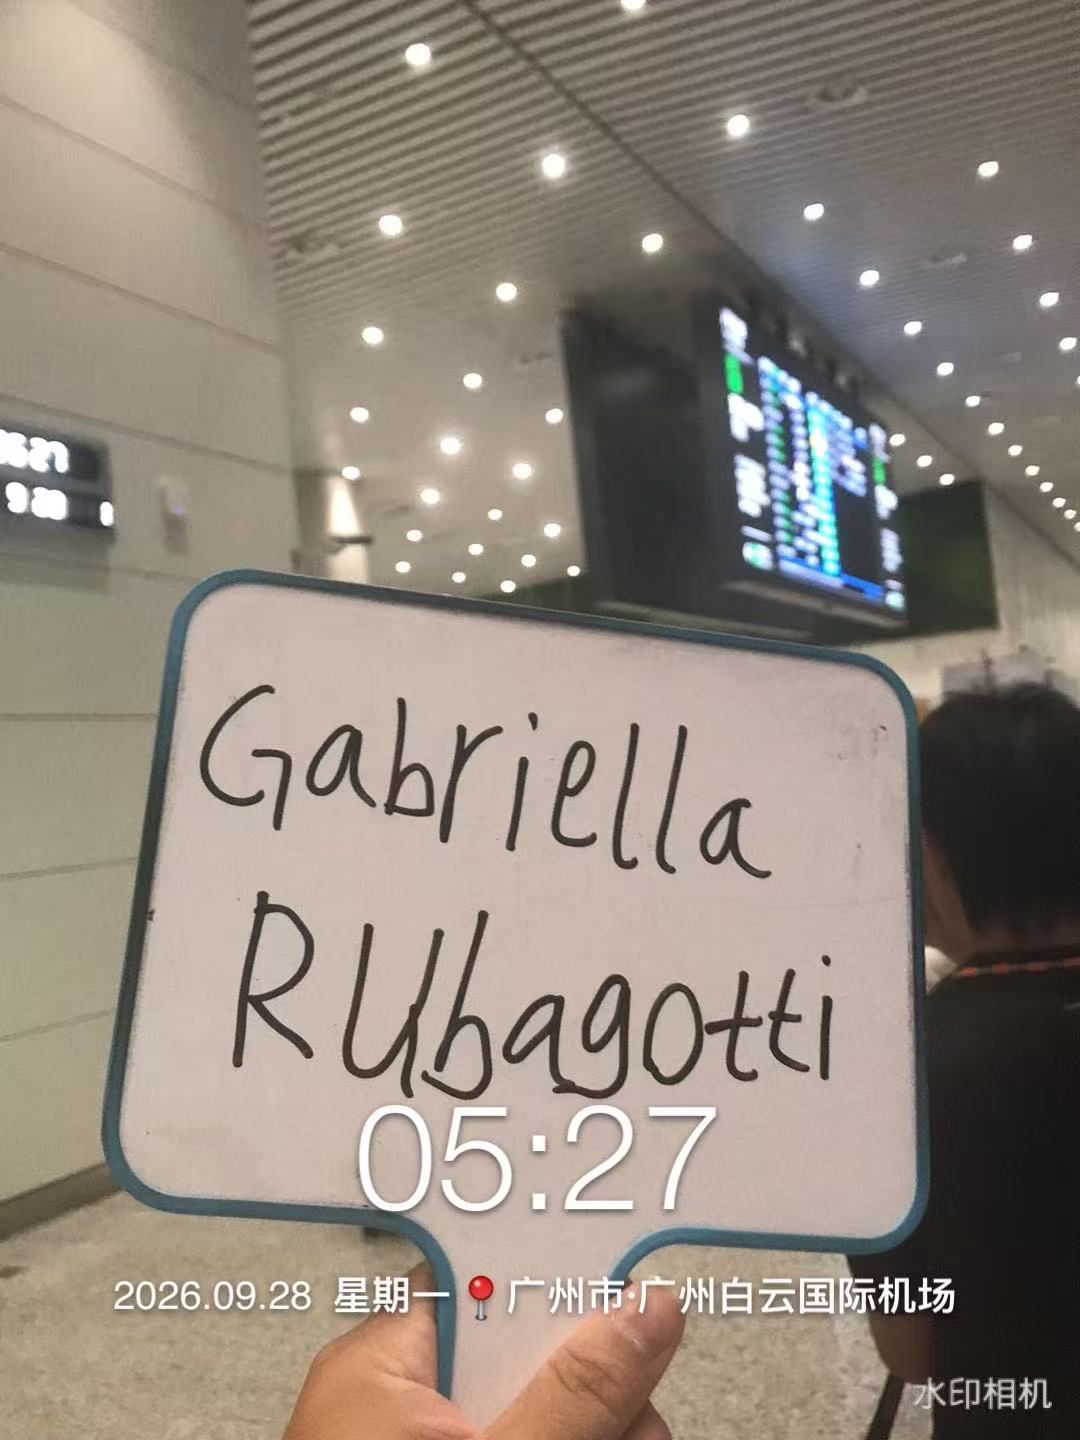
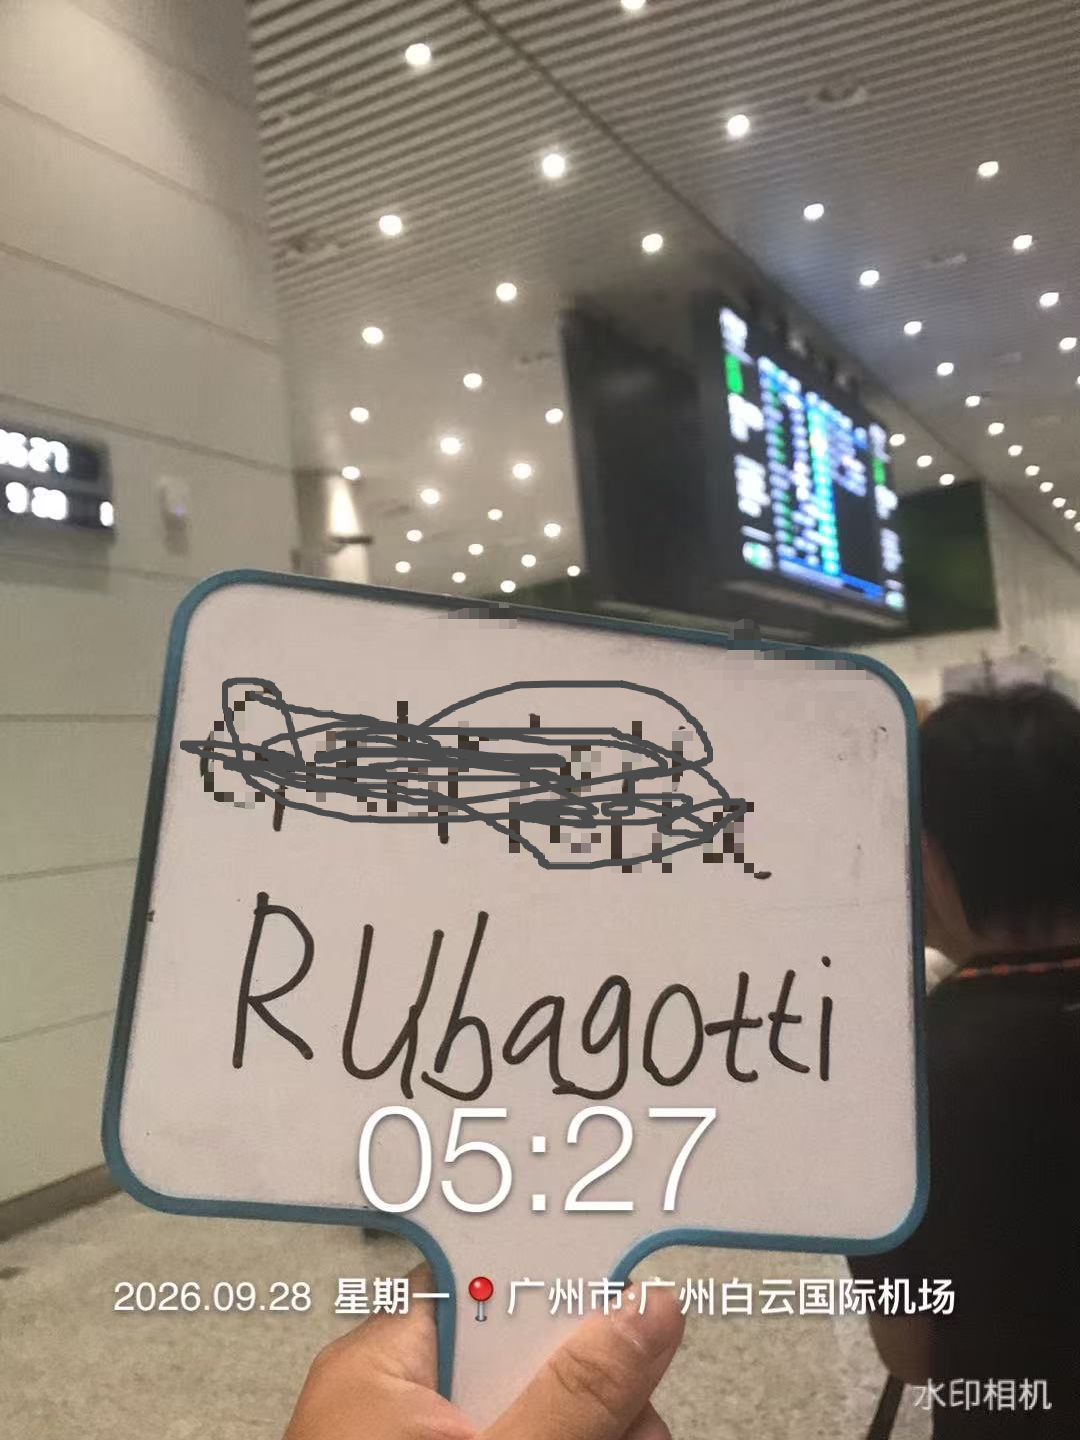
调整路线和价格

diff --git a/src/data/content.js b/src/data/content.js
@@ -22,7 +22,7 @@ export const pages = tr({
     path: '/airport-transfer',
     title: 'Guangzhou Baiyun Airport Transfer & Pickup | CantonPickup',
     description:
-      'Guangzhou Baiyun Airport (CAN) pickup by English-speaking driver. Flight monitoring, meet & greet with a name sign, 60 minutes free waiting.',
+      'Guangzhou Baiyun Airport (CAN) pickup by English-speaking driver. Flight monitoring, meet & greet with a name sign, 90 minutes free waiting.',
     keywords:
       'guangzhou airport transfer, guangzhou airport pickup, guangzhou baiyun airport transfer, baiyun airport transfer, CAN airport transfer, guangzhou arrival transfer, guangzhou south station pickup, china visa free transit guangzhou, 240-hour visa free transit guangzhou, guangzhou airport to canton fair',
     h1: 'Guangzhou Baiyun Airport Pickup (CAN) — Meet & Greet',
@@ -287,7 +287,7 @@ export const termsSections = [
   {
     title: '4. Waiting time and flight delays',
     body: [
-      'For airport pickups we monitor your flight. If it lands late, your driver waits and the pickup time moves with it — there is no extra charge. Standard free waiting time at the airport is 60 minutes from landing.',
+      'For airport pickups we monitor your flight. If it lands late, your driver waits and the pickup time moves with it — there is no extra charge. Standard free waiting time at the airport is 90 minutes from landing.',
       'For other pickups, 15 minutes of waiting time is included. Additional waiting time is charged at the hourly overtime rate shown on our pricing page, in 30-minute blocks.',
     ],
   },
@@ -359,7 +359,7 @@ export const serviceCards = tr([
     text: 'Land, clear immigration, and find your driver waiting in the arrivals hall with a sign. We follow your flight, so a late landing never costs you anything extra.',
     points: [
       'Flight monitored in real time — no charge if you land late',
-      '60 minutes of free waiting time after your flight lands',
+      '90 minutes of free waiting time after your flight lands',
       'Meet & greet with a name sign inside the terminal',
     ],
   },
@@ -820,7 +820,7 @@ export const faqGroups = tr([
       },
       {
         q: 'How much waiting time is included?',
-        a: 'For airport arrivals we include 60 minutes of free waiting time from the moment your flight lands, and 30 minutes for departures and railway station pickups. If you are held up in immigration or baggage claim, just let us know.',
+        a: 'For airport arrivals we include 90 minutes of free waiting time from the moment your flight lands, and 30 minutes for departures and railway station pickups. If you are held up in immigration or baggage claim, just let us know.',
       },
       {
         q: 'Which airports and stations do you cover?',
@@ -1228,7 +1228,7 @@ export const heroBadges = tr({
     { icon: 'plane', text: 'Flight monitored' },
     { icon: 'user', text: 'Meet & Greet with name sign' },
     { icon: 'luggage', text: 'Luggage handled' },
-    { icon: 'shield', text: '60 minutes free waiting' },
+    { icon: 'shield', text: '90 minutes free waiting' },
     { icon: 'wallet', text: 'Airport pickup from $57' },
   ],
   privateDriver: [

diff --git a/src/data/articles.js b/src/data/articles.js
@@ -302,7 +302,7 @@ export const articles = [
         heading: 'Getting into the city',
         body: [
           'The metro is cheap and reliable, and the airport express bus covers the main hotel districts. Both involve managing your own luggage.',
-          'A private car is the simplest option if you are arriving after a long flight, carrying samples, or heading somewhere that is not next to a metro station. The drive to central Guangzhou is around 45 to 60 minutes; to Foshan, 70 to 90 minutes.',
+          'A private car is the simplest option if you are arriving after a long flight, carrying samples, or heading somewhere that is not next to a metro station. The drive to central Guangzhou is around 45 to 90 minutes; to Foshan, 70 to 90 minutes.',
         ],
       },
     ],

diff --git a/src/data/routePages.js b/src/data/routePages.js
@@ -96,7 +96,7 @@ export const routePages = tr([
     faq: [
       {
         q: 'How long does the drive from Guangzhou to Foshan take?',
-        a: 'Between 40 and 60 minutes from central Guangzhou, and 70 to 90 minutes from Baiyun Airport. Traffic around the Foshan ring road is heaviest between 08:00 and 09:30, so allow a little more if you have a meeting to reach.',
+        a: 'Between 40 and 90 minutes from central Guangzhou, and 70 to 90 minutes from Baiyun Airport. Traffic around the Foshan ring road is heaviest between 08:00 and 09:30, so allow a little more if you have a meeting to reach.',
       },
       {
         q: 'Is the price per person or per vehicle?',
